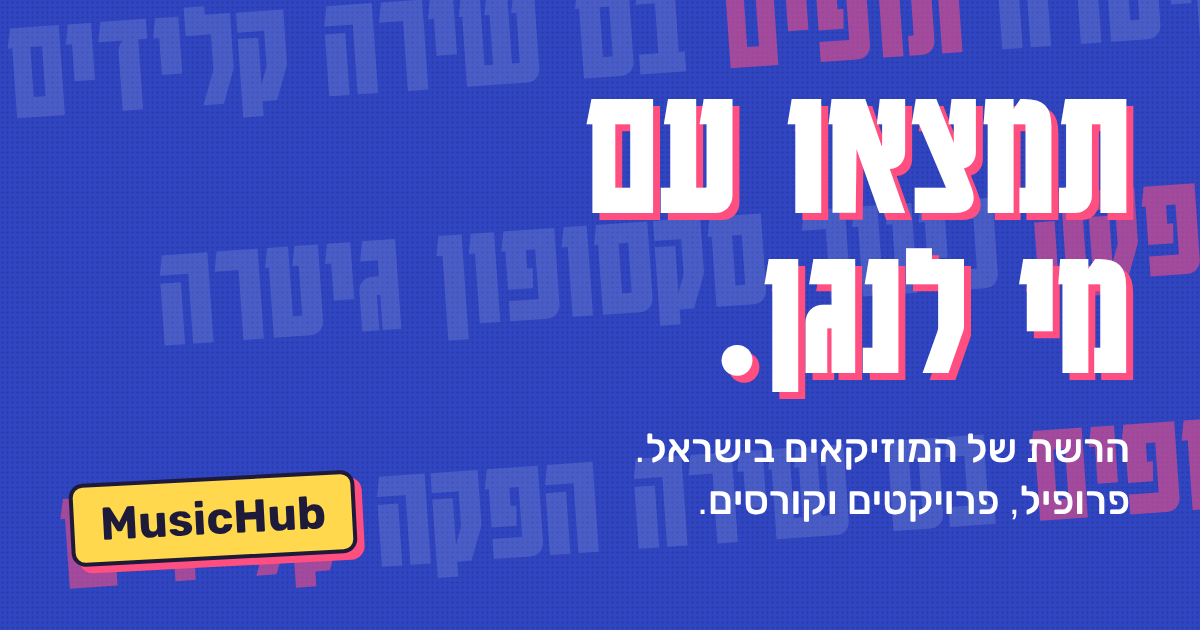
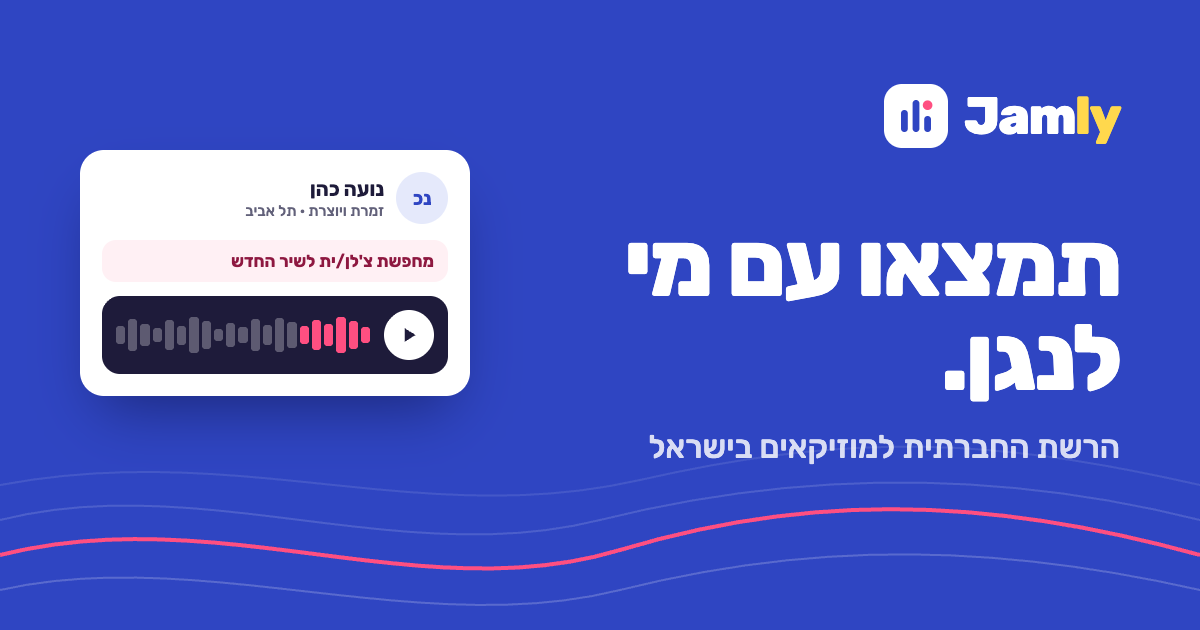
Rename the site to Jamly
- New name in the logo, page titles, link previews, two-step app label,
  data export file name and email templates.
- One shared Wordmark component for the header, sign-in and onboarding.
- New link-preview image (og.png) in the new design.
- PRODUCT.md, DESIGN.md and README updated; jamly.co.il noted as the
  domain to buy.

diff --git a/index.html b/index.html
@@ -5,17 +5,17 @@
     <meta name="viewport" content="width=device-width, initial-scale=1.0" />
     <link rel="icon" type="image/svg+xml" href="/favicon.svg" />
     <meta name="theme-color" content="#2F45C2" />
-    <title>MusicHub — הרשת החברתית למוזיקאים</title>
-    <meta name="description" content="MusicHub מחברת בין מוזיקאים: מצאו שותפים לפרויקטים, למדו מקורסים של מוזיקאים אחרים, ובנו פרופיל מקצועי." />
-    <meta property="og:title" content="MusicHub — הרשת החברתית למוזיקאים" />
+    <title>Jamly — הרשת החברתית למוזיקאים</title>
+    <meta name="description" content="Jamly מחברת בין מוזיקאים: מצאו שותפים לפרויקטים, למדו מקורסים של מוזיקאים אחרים, ובנו פרופיל מקצועי." />
+    <meta property="og:title" content="Jamly — הרשת החברתית למוזיקאים" />
     <meta property="og:description" content="מצאו שותפים לפרויקטים, למדו מקורסים של מוזיקאים אחרים, ובנו פרופיל מקצועי." />
     <meta property="og:type" content="website" />
-    <meta property="og:site_name" content="MusicHub" />
+    <meta property="og:site_name" content="Jamly" />
     <meta property="og:locale" content="he_IL" />
     <meta property="og:image" content="https://musichub-wheat.vercel.app/og.png" />
     <meta property="og:image:width" content="1200" />
     <meta property="og:image:height" content="630" />
-    <meta property="og:image:alt" content="MusicHub: תמצאו עם מי לנגן" />
+    <meta property="og:image:alt" content="Jamly: תמצאו עם מי לנגן. הרשת החברתית למוזיקאים בישראל" />
     <meta name="twitter:card" content="summary_large_image" />
     <link rel="apple-touch-icon" href="/apple-touch-icon.png" />
     <link rel="preconnect" href="https://fonts.googleapis.com" />

diff --git a/src/pages/auth/AuthShell.jsx b/src/pages/auth/AuthShell.jsx
@@ -1,15 +1,14 @@
 import { Link } from "react-router-dom";
 import { APP_NAME } from "@/lib/config";
 import { usePageTitle } from "@/lib/usePageTitle";
-import LogoMark from "@/components/LogoMark";
+import Wordmark from "@/components/Wordmark";
 import LanguageSwitch from "@/components/LanguageSwitch";
 import { tr } from "@/lib/i18n";
 
-function Wordmark() {
+function HomeLink() {
   return (
     <Link to="/" className="flex w-fit items-center gap-2" aria-label={tr("{0} — דף הבית", APP_NAME)}>
-      <LogoMark className="h-8 w-8" />
-      <span className="ltr text-[1.2rem] font-extrabold tracking-tight text-foreground">Music<span className="text-primary">Hub</span></span>
+      <Wordmark />
     </Link>
   );
 }
@@ -30,7 +29,7 @@ export default function AuthShell({ title, subtitle, children, footer }) {
   return (
     <div className="grid min-h-screen bg-card lg:grid-cols-[1fr_minmax(440px,0.85fr)]">
       <div className="flex flex-col px-5 py-6 sm:px-10 lg:py-8">
-        <div className="flex items-center justify-between gap-3"><Wordmark /><LanguageSwitch /></div>
+        <div className="flex items-center justify-between gap-3"><HomeLink /><LanguageSwitch /></div>
         <main id="main" className="mx-auto flex w-full max-w-[400px] flex-1 flex-col justify-center py-10">
           <h1 className="text-[2rem] font-bold leading-tight tracking-tight">{title}</h1>
           {subtitle && <p className="mt-2 text-[15px] text-muted-foreground">{subtitle}</p>}

diff --git a/src/pages/Onboarding.jsx b/src/pages/Onboarding.jsx
@@ -5,7 +5,7 @@ import { Button } from "@/components/ui/button";
 import { Card } from "@/components/ui/card";
 import { Progress } from "@/components/ui/progress";
 import PageLoader from "@/components/PageLoader";
-import LogoMark from "@/components/LogoMark";
+import Wordmark from "@/components/Wordmark";
 import ProfileForm, { focusFirstError, formToProfile, profileErrors, profileToForm } from "@/components/ProfileForm";
 import { supabase, unwrap } from "@/lib/supabase";
 import { useAuth } from "@/auth/AuthProvider";
@@ -91,7 +91,7 @@ export default function Onboarding() {
   return (
     <div className="min-h-screen px-4 py-8 sm:py-12">
       <div className="mx-auto max-w-2xl">
-        <div className="mb-6 flex items-center gap-2"><LogoMark className="h-8 w-8" /><span className="ltr text-[1.2rem] font-extrabold tracking-tight">Music<span className="text-primary">Hub</span></span></div>
+        <Wordmark className="mb-6" />
         <Progress value={((step + 1) / STEPS.length) * 100} className="mb-6 h-1.5" aria-label={tr("שלב {0} מתוך {1}", step + 1, STEPS.length)} />
         <Card className="p-6 sm:p-8">
           <p className="text-sm font-medium text-primary">{tr("שלב")}{" "}{step + 1}{" "}{tr("מתוך")}{" "}{STEPS.length}</p>

diff --git a/src/components/ProfileForm.jsx b/src/components/ProfileForm.jsx
@@ -130,7 +130,7 @@ export default function ProfileForm({ form, setForm, userId, sections = ["basics
             <div className="relative h-24 overflow-hidden rounded-xl bg-riso-blue">
               {safeUrl(form.cover_url)
                 ? <img src={safeUrl(form.cover_url)} alt="" className="h-full w-full object-cover" />
-                : <p className="flex h-full items-center justify-center px-4 text-center text-sm text-white/85">{tr("בלי תמונת כיסוי יופיע כיסוי הגלים של MusicHub")}</p>}
+                : <p className="flex h-full items-center justify-center px-4 text-center text-sm text-white/85">{tr("בלי תמונת כיסוי יופיע כיסוי הגלים של Jamly")}</p>}
             </div>
             <input ref={coverRef} type="file" accept={ACCEPT.image} hidden onChange={onImage("cover_url")} />
             <div className="flex flex-wrap gap-2">

diff --git a/src/components/AppLayout.jsx b/src/components/AppLayout.jsx
@@ -14,7 +14,7 @@ import { APP_NAME } from "@/lib/config";
 import { cn } from "@/lib/utils";
 import { useAuthHref } from "@/auth/returnTo";
 import ErrorBoundary from "@/components/ErrorBoundary";
-import LogoMark from "@/components/LogoMark";
+import Wordmark from "@/components/Wordmark";
 import LanguageSwitch from "@/components/LanguageSwitch";
 import { DIR, LANG, setLang, tr } from "@/lib/i18n";
 
@@ -78,8 +78,7 @@ function CountBadge({ count, className }) {
 function Logo() {
   return (
     <Link to="/" className="flex shrink-0 items-center gap-2" aria-label={tr("{0} — דף הבית", APP_NAME)}>
-      <LogoMark className="h-8 w-8" />
-      <span className="ltr text-[1.2rem] font-extrabold tracking-tight text-foreground">Music<span className="text-primary">Hub</span></span>
+      <Wordmark />
     </Link>
   );
 }

diff --git a/src/lib/en.js b/src/lib/en.js
@@ -146,7 +146,7 @@ const EN = {
   "שם המשתמש צריך להיות באורך 3 עד 30 תווים": "Username must be 3 to 30 characters",
   "רק אותיות באנגלית קטנות, ספרות או _ (בלי רווחים ועברית)": "Only lowercase English letters, numbers or _ (no spaces or Hebrew)",
   "תמונת פרופיל": "Profile photo",
-  "בלי תמונת כיסוי יופיע כיסוי הגלים של MusicHub": "Without a cover photo, your profile shows the MusicHub wave cover",
+  "בלי תמונת כיסוי יופיע כיסוי הגלים של Jamly": "Without a cover photo, your profile shows the Jamly wave cover",
   "תמונת כיסוי": "Cover photo",
   "שם מלא": "Full name",
   "שם משתמש": "Username",

diff --git a/supabase/templates/reset-password.html b/supabase/templates/reset-password.html
@@ -1,6 +1,6 @@
 <div dir="rtl" style="font-family:Arial,sans-serif;max-width:480px;margin:auto;color:#1E1B3A">
   <h2 style="color:#2F45C2">איפוס סיסמה</h2>
-  <p>קיבלנו בקשה לאיפוס הסיסמה שלכם ב-MusicHub.</p>
+  <p>קיבלנו בקשה לאיפוס הסיסמה שלכם ב-Jamly.</p>
   <p><a href="{{ .SiteURL }}/auth/confirm?token_hash={{ .TokenHash }}&type=recovery" style="display:inline-block;background:#2F45C2;color:#fff;padding:12px 24px;border-radius:999px;text-decoration:none;font-weight:bold">בחירת סיסמה חדשה</a></p>
   <p style="color:#666;font-size:13px">הקישור עובד פעם אחת, מכל מכשיר. לא ביקשתם? אפשר להתעלם. הסיסמה לא תשתנה.</p>
 </div>

diff --git a/supabase/templates/confirm-signup.html b/supabase/templates/confirm-signup.html
@@ -1,5 +1,5 @@
 <div dir="rtl" style="font-family:Arial,sans-serif;max-width:480px;margin:auto;color:#1E1B3A">
-  <h2 style="color:#2F45C2">ברוכים הבאים ל-MusicHub</h2>
+  <h2 style="color:#2F45C2">ברוכים הבאים ל-Jamly</h2>
   <p>נשאר רק לאשר את כתובת המייל כדי להפעיל את החשבון.</p>
   <p><a href="{{ .SiteURL }}/auth/confirm?token_hash={{ .TokenHash }}&type=email" style="display:inline-block;background:#2F45C2;color:#fff;padding:12px 24px;border-radius:999px;text-decoration:none;font-weight:bold">אישור המייל</a></p>
   <p style="color:#666;font-size:13px">הקישור עובד פעם אחת, מכל מכשיר. לא נרשמתם? אפשר להתעלם מהמייל הזה.</p>

diff --git a/middleware.js b/middleware.js
@@ -6,7 +6,7 @@
 export const config = { matcher: ["/u/:path*", "/collabs/:path*", "/courses/:path*"] };
 
 const BOTS = /whatsapp|facebookexternalhit|facebot|twitterbot|telegrambot|slackbot|linkedinbot|discordbot|skypeuripreview|googlebot|bingbot|applebot|pinterest|redditbot|embedly|quora link preview|vkshare|w3c_validator/i;
-const SITE = "MusicHub";
+const SITE = "Jamly";
 
 const esc = (v) => String(v ?? "").replace(/[&<>"']/g, (c) => ({ "&": "&amp;", "<": "&lt;", ">": "&gt;", '"': "&quot;", "'": "&#39;" })[c]);
 const clip = (v, n) => { const t = String(v ?? "").replace(/\s+/g, " ").trim(); return t.length > n ? `${t.slice(0, n - 1)}…` : t; };

diff --git a/src/lib/exportData.js b/src/lib/exportData.js
@@ -55,7 +55,7 @@ export async function downloadMyData(userId, email) {
   };
   const blob = new Blob([JSON.stringify(data, null, 2)], { type: "application/json" });
   const url = URL.createObjectURL(blob);
-  const a = Object.assign(document.createElement("a"), { href: url, download: `musichub-my-data-${new Date().toISOString().slice(0, 10)}.json` });
+  const a = Object.assign(document.createElement("a"), { href: url, download: `jamly-my-data-${new Date().toISOString().slice(0, 10)}.json` });
   document.body.appendChild(a); a.click(); a.remove();
   URL.revokeObjectURL(url);
 }

diff --git a/src/components/Wordmark.jsx b/src/components/Wordmark.jsx
@@ -1,0 +1,12 @@
+import LogoMark from "@/components/LogoMark";
+import { cn } from "@/lib/utils";
+
+/** The logo: the equaliser mark plus the name "Jamly" ("ly" in brand blue). */
+export default function Wordmark({ className, markClassName = "h-8 w-8" }) {
+  return (
+    <span className={cn("flex items-center gap-2", className)}>
+      <LogoMark className={markClassName} />
+      <span className="ltr text-[1.25rem] font-extrabold tracking-tight text-foreground">Jam<span className="text-primary">ly</span></span>
+    </span>
+  );
+}

diff --git a/src/components/TwoFactorCard.jsx b/src/components/TwoFactorCard.jsx
@@ -29,7 +29,7 @@ export default function TwoFactorCard() {
     for (const f of factors.data ?? []) if (f.status !== "verified") await supabase.auth.mfa.unenroll({ factorId: f.id });
     const { data, error } = await supabase.auth.mfa.enroll({
       factorType: "totp",
-      friendlyName: `MusicHub ${Math.random().toString(36).slice(2, 8)}`,
+      friendlyName: `Jamly ${Math.random().toString(36).slice(2, 8)}`,
     });
     setBusy(false);
     if (error) return toast.error(errorMessage(error));
